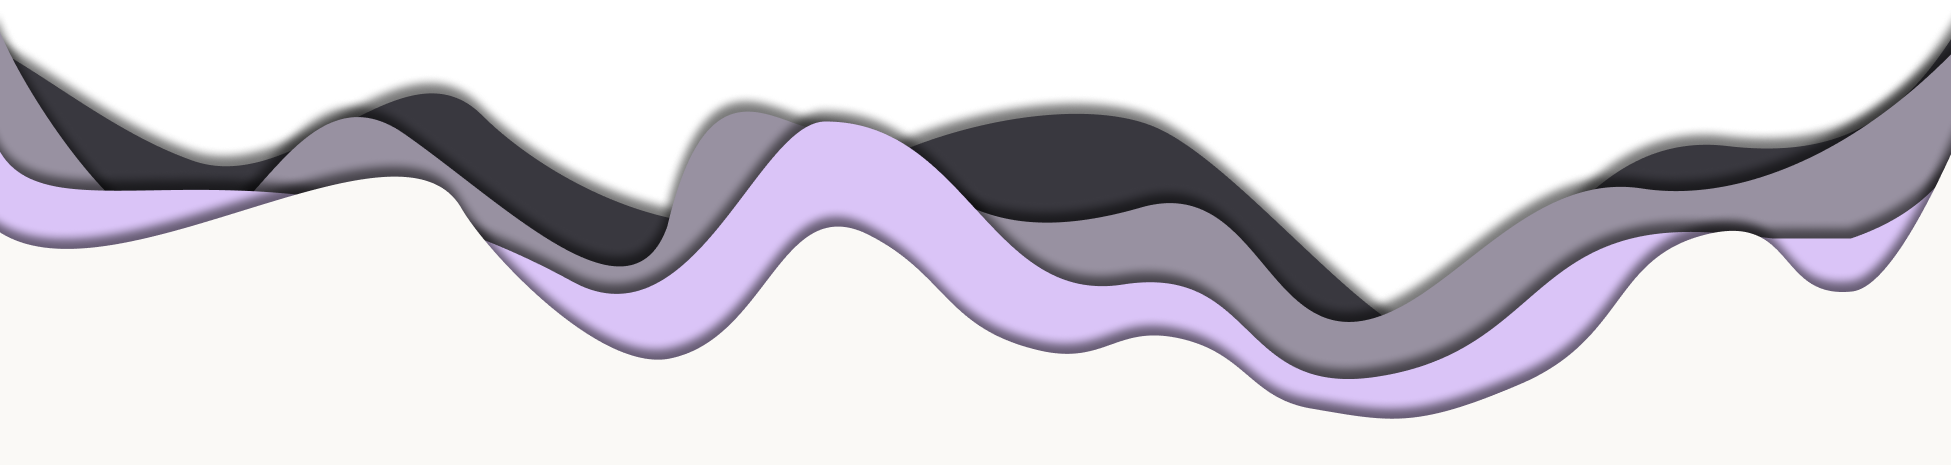
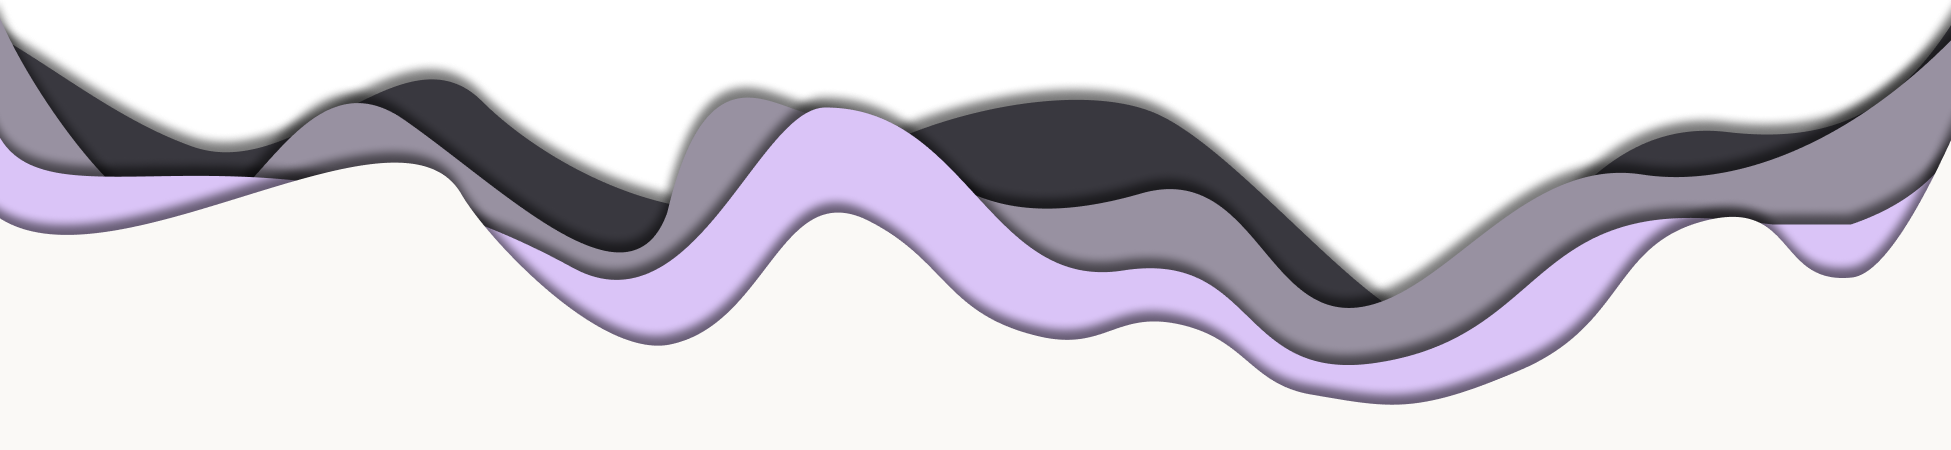
correzione stili di testo

diff --git a/style.css b/style.css
@@ -173,13 +173,6 @@ Quindi mettiamo border radius 16px per desktop, 8px per mobile*/
 @media (min-width: 576px) {
     .text-style-h1 {
         font-size: 3.5rem;
-        font-family: Brice, serif;
-        font-weight: 900;
-        font-style: normal;
-        line-height: 100%;
-        text-decoration: none;
-        text-transform: uppercase;
-        margin: 0;
     }
 }
 
@@ -197,12 +190,6 @@ Quindi mettiamo border radius 16px per desktop, 8px per mobile*/
 @media (min-width: 576px) {
     .text-style-h2 {
         font-size: 2.5rem;
-        font-family: Brice, sans-serif;
-        font-weight: 700;
-        font-style: normal;
-        line-height: 100%;
-        text-decoration: none;
-        text-transform: uppercase;
         margin: 0 0 32px 0;
     }
 }
@@ -221,13 +208,6 @@ Quindi mettiamo border radius 16px per desktop, 8px per mobile*/
 @media (min-width: 576px) {
     .text-style-h3 {
         font-size: 2rem;
-        font-family: "Space Grotesk";
-        font-weight: 700;
-        font-style: normal;
-        line-height: 100%;
-        text-decoration: none;
-        text-transform: none;
-        margin: 0;
     }
 }
 
@@ -245,13 +225,7 @@ Quindi mettiamo border radius 16px per desktop, 8px per mobile*/
 @media (min-width: 576px) {
     .text-style-h4 {
         font-size: 1.5rem;
-        font-family: "Space Grotesk";
-        font-weight: 700;
-        font-style: normal;
         line-height: 24px;
-        text-decoration: none;
-        text-transform: none;
-        margin: 0 0 16px 0;
     }
 }
 
@@ -269,17 +243,11 @@ Quindi mettiamo border radius 16px per desktop, 8px per mobile*/
 @media (min-width: 576px) {
     .text-style-h5 {
         font-size: 1.125rem;
-        font-family: "Space Grotesk";
-        font-weight: 500;
-        font-style: normal;
         line-height: 125%;
-        text-decoration: none;
-        text-transform: none;
-        margin: 0;
     }
 }
 
-/*h5-regular*/
+/*h6*/
 .text-style-h5-regular {
     font-size: 1rem;
     font-family: "Space Grotesk";
@@ -293,13 +261,7 @@ Quindi mettiamo border radius 16px per desktop, 8px per mobile*/
 @media (min-width: 576px) {
     .text-style-h5-regular {
         font-size: 1.125rem;
-        font-family: "Space Grotesk";
-        font-weight: 400;
-        font-style: normal;
         line-height: 125%;
-        text-decoration: none;
-        text-transform: none;
-        margin: 0;
     }
 }
 
@@ -320,13 +282,7 @@ Quindi mettiamo border radius 16px per desktop, 8px per mobile*/
 @media (min-width: 576px) {
     .text-style-body-copy {
         font-size: 1.125rem;
-        font-family: "Space Grotesk";
-        font-weight: 400;
-        font-style: normal;
         line-height: 125%;
-        text-decoration: none;
-        text-transform: none;
-        margin: 0;
         + p {
             margin-top: 8px;
         }
@@ -346,12 +302,7 @@ Quindi mettiamo border radius 16px per desktop, 8px per mobile*/
 @media (min-width: 576px) {
     .text-style-body-copy-small {
         font-size: 1rem;
-        font-family: "Space Grotesk";
-        font-weight: 400;
-        font-style: normal;
         line-height: 125%;
-        text-decoration: none;
-        text-transform: none;
     }
 }
 
@@ -368,12 +319,6 @@ Quindi mettiamo border radius 16px per desktop, 8px per mobile*/
 @media (min-width: 576px) {
     .text-style-button {
         font-size: 1.25rem;
-        font-family: "Space Grotesk";
-        font-weight: 400;
-        font-style: normal;
-        line-height: 100%;
-        text-decoration: none;
-        text-transform: none;
     }
 }
 
@@ -390,20 +335,14 @@ Quindi mettiamo border radius 16px per desktop, 8px per mobile*/
 @media (min-width: 576px) {
     .text-style-header-footer {
         font-size: 1.25rem;
-        font-family: "Space Grotesk";
-        font-weight: 500;
-        font-style: normal;
-        line-height: 100%;
-        text-decoration: none;
-        text-transform: none;
     }
 }
 
 /*black and white text styles*/
-/*h1 home*/
-.text-style-bw-h1-home {
+/*h1 hero*/
+.text-style-bw-h1-hero {
     font-size: 3rem;
-    font-family: Good Times;
+    font-family: "Good Times";
     font-weight: 400;
     font-style: normal;
     line-height: 100%;
@@ -412,34 +351,20 @@ Quindi mettiamo border radius 16px per desktop, 8px per mobile*/
     text-align: center;
 }
 @media (min-width: 576px) {
-    .text-style-bw-h1-home {
+    .text-style-bw-h1-hero {
         font-size: 4rem;
-        font-family: Good Times;
-        font-weight: 400;
-        font-style: normal;
-        line-height: 100%;
-        text-decoration: none;
-        text-transform: uppercase;
-        text-align: center;
     }
 }
 @media (min-width: 768px) {
-    .text-style-bw-h1-home {
+    .text-style-bw-h1-hero {
         font-size: 6rem;
-        font-family: Good Times;
-        font-weight: 400;
-        font-style: normal;
-        line-height: 100%;
-        text-decoration: none;
-        text-transform: uppercase;
-        text-align: center;
     }
 }
 
 /*h1*/
 .text-style-bw-h1 {
     font-size: 2.5rem;
-    font-family: Good Times;
+    font-family: "Good Times";
     font-weight: 400;
     font-style: normal;
     line-height: 100%;
@@ -449,19 +374,13 @@ Quindi mettiamo border radius 16px per desktop, 8px per mobile*/
 @media (min-width: 576px) {
     .text-style-bw-h1 {
         font-size: 3.5rem;
-        font-family: Good Times;
-        font-weight: 400;
-        font-style: normal;
-        line-height: 100%;
-        text-decoration: none;
-        text-transform: uppercase;
     }
 }
 
 /*h2*/
 .text-style-bw-h2 {
     font-size: 1.125rem;
-    font-family: Good Times;
+    font-family: "Good Times";
     font-weight: 400;
     font-style: normal;
     line-height: 105%;
@@ -473,13 +392,8 @@ Quindi mettiamo border radius 16px per desktop, 8px per mobile*/
 @media (min-width: 576px) {
     .text-style-bw-h2 {
         font-size: 2.5rem;
-        font-family: Good Times;
-        font-weight: 400;
-        font-style: normal;
         line-height: 100%;
-        text-decoration: none;
         text-transform: uppercase;
-        text-align: left;
         margin: 0 0 32px 0;
     }
 }
@@ -487,7 +401,7 @@ Quindi mettiamo border radius 16px per desktop, 8px per mobile*/
 /*h3*/
 .text-style-bw-h3 {
     font-size: 1.5rem;
-    font-family: Good Times;
+    font-family: "Good Times";
     font-weight: 400;
     font-style: normal;
     line-height: 100%;
@@ -497,11 +411,6 @@ Quindi mettiamo border radius 16px per desktop, 8px per mobile*/
 @media (min-width: 576px) {
     .text-style-bw-h3 {
         font-size: 2rem;
-        font-family: Good Times;
-        font-weight: 400;
-        font-style: normal;
-        line-height: 100%;
-        text-decoration: none;
         text-transform: none;
     }
 }

diff --git a/Index.html b/Index.html
@@ -95,9 +95,9 @@
       <div class="row d-flex justify-content-between">
         <div class="sx-stars"></div>
         <div class="hero-block d-flex flex-column justify-content-center align-items-center">
-          <h1 class="text-style-bw-h1-home py-5 mt-sm-5 mt-3 effect-style-text-shadow d-lg-none">Welcome to the bizarre</h1>
-          <h1 class="text-style-bw-h1-home pt-5 pb-0 mt-sm-5 mt-3 effect-style-text-shadow d-none d-lg-block">Welcome</h1>
-          <h1 class="text-style-bw-h1-home pb-5 effect-style-text-shadow d-none d-lg-block">to the bizarre</h1>
+          <h1 class="text-style-bw-h1-hero py-5 mt-sm-5 mt-3 effect-style-text-shadow d-lg-none">Welcome to the bizarre</h1>
+          <h1 class="text-style-bw-h1-hero pt-5 pb-0 mt-sm-5 mt-3 effect-style-text-shadow d-none d-lg-block">Welcome</h1>
+          <h1 class="text-style-bw-h1-hero pb-5 effect-style-text-shadow d-none d-lg-block">to the bizarre</h1>
           <!--questo è il template per i bottoni, le classi sono sl-btn-bw-white e sl-btn-->
           <a href="" class="sl-btn-bw-white pt-2">
             <span class="sl-btn-text text-style-button">Discover our socky experience</span>
@@ -119,8 +119,8 @@
       <div class="row justify-content-center justify-content-lg-start mx-3">
         <div class="offset-lg-1 col-lg-5 d-flex justify-content-center align-items-center pb-lg-0">
           <div class="whats-new-text d-flex flex-column justify-content-center">
-            <h2 class="text-style-h2 sl-color-banana">What's new</h2>
-            <h4 class="text-style-h4 sl-color-banana">Ecco le collaborazioni con i partner più stellari da cui nascono le nostre Edizioni Limitate!</h4>
+            <h2 class="text-style-h2 sl-color-strawberry">What's new</h2>
+            <h4 class="text-style-h4 sl-color-strawberry">Ecco le collaborazioni con i partner più stellari da cui nascono le nostre Edizioni Limitate!</h4>
             <p class="text-style-body-copy">Siamo entusiasti di presentare le nostre straordinarie collaborazioni con menti creative da ogni angolo dell'universo e di esplorare con voi nuove frontiere della moda.</p>
             <p class="text-style-body-copy">
               Ogni partnership rappresenta un viaggio unico che dà vita a prodotti straordinari in grado di sorprenderti di continuo. Abbraccia l'unicità dell'universo con le nostre esclusive calze a tiratura limitata!

diff --git a/stylehome.css b/stylehome.css
@@ -56,7 +56,7 @@
 @media (min-width: 576px) {
     .wave-home-1{
         width: 100%;
-        height: 340px;
+        height: 500px;
         background-image: url(img/home/wave-home-1-desktop.png);
         background-position: center;
         background-size: cover;
